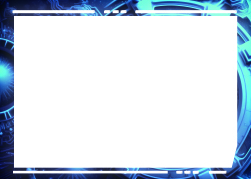
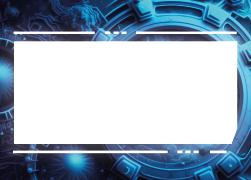
:sparkles:

diff --git a/app/components/Equipment.tsx b/app/components/Equipment.tsx
@@ -79,7 +79,7 @@ function GreenLayout({ description }: Partial<EquipmentEntity>) {
   return (
     <CardContent sx={{ backgroundImage: `url(${greenLayout})` }}>
       <Description
-        sx={{ position: 'absolute', top: '6mm', left: '6mm', right: '6mm', bottom: '5mm' }}
+        sx={{ position: 'absolute', top: '13mm', left: '6mm', right: '6mm', bottom: '12mm' }}
       >
         {description ?? ''}
       </Description>
@@ -91,7 +91,7 @@ function BlueLayout({ description }: Partial<EquipmentEntity>) {
   return (
     <CardContent sx={{ backgroundImage: `url(${blueLayout})` }}>
       <Description
-        sx={{ position: 'absolute', top: '6mm', left: '6mm', right: '6mm', bottom: '5mm' }}
+        sx={{ position: 'absolute', top: '13mm', left: '6mm', right: '6mm', bottom: '12mm' }}
       >
         {description ?? ''}
       </Description>
